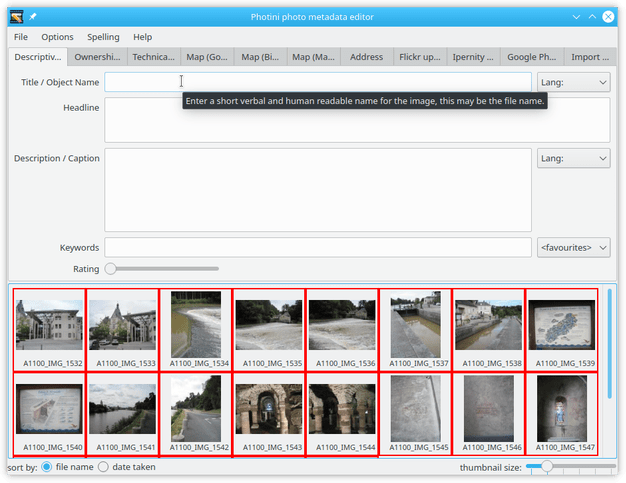
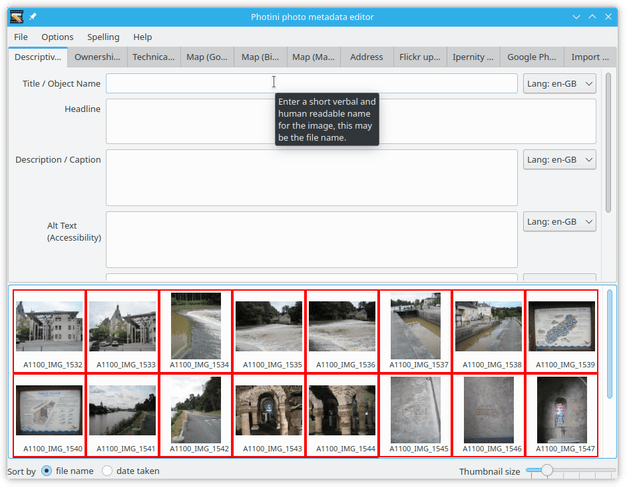
New screenshots for descriptive tab documentation

diff --git a/src/photini/__init__.py b/src/photini/__init__.py
@@ -1,4 +1,4 @@
 """Full documentation is at https://photini.readthedocs.io/"""
 
 __version__ = '2022.11.0'
-build = '2298 (d269151)'
+build = '2299 (3027196)'

diff --git a/src/doc/manual/descriptive_metadata.rst b/src/doc/manual/descriptive_metadata.rst
@@ -52,17 +52,19 @@ Very long texts are elided with ``...`` replacing some of the text.
 
 .. image:: ../images/screenshot_025.png
 
-The ``Alt Text (Accessibility)`` and ``Extended Description (Accessibility)`` boxes (not shown in these older screenshots) are where you describe the photograph for visually impaired users.
+The ``Alt Text (Accessibility)`` and ``Extended Description (Accessibility)`` boxes are where you describe the photograph for visually impaired users.
 These are a recent addition to the `IPTC standard`_ - in future image display programs and web sites should use this metadata to create their "ALT text" image description.
 
-Finally the ``Rating`` slider allows you to note any particularly good or bad pictures.
-Good pictures can be given a one to five star rating.
+.. image:: ../images/screenshot_034.png
 
 Next you can set a list of keywords for the image by typing them in the ``Keywords`` box.
 Keywords should be separated by semi-colon (;) characters.
 The ``<favourites>`` drop-down list can be used to select keywords from the ones you use most often.
 
 .. image:: ../images/screenshot_026.png
+
+Finally the ``Rating`` slider allows you to note any particularly good or bad pictures.
+Good pictures can be given a one to five star rating.
 
 .. image:: ../images/screenshot_027.png
 
